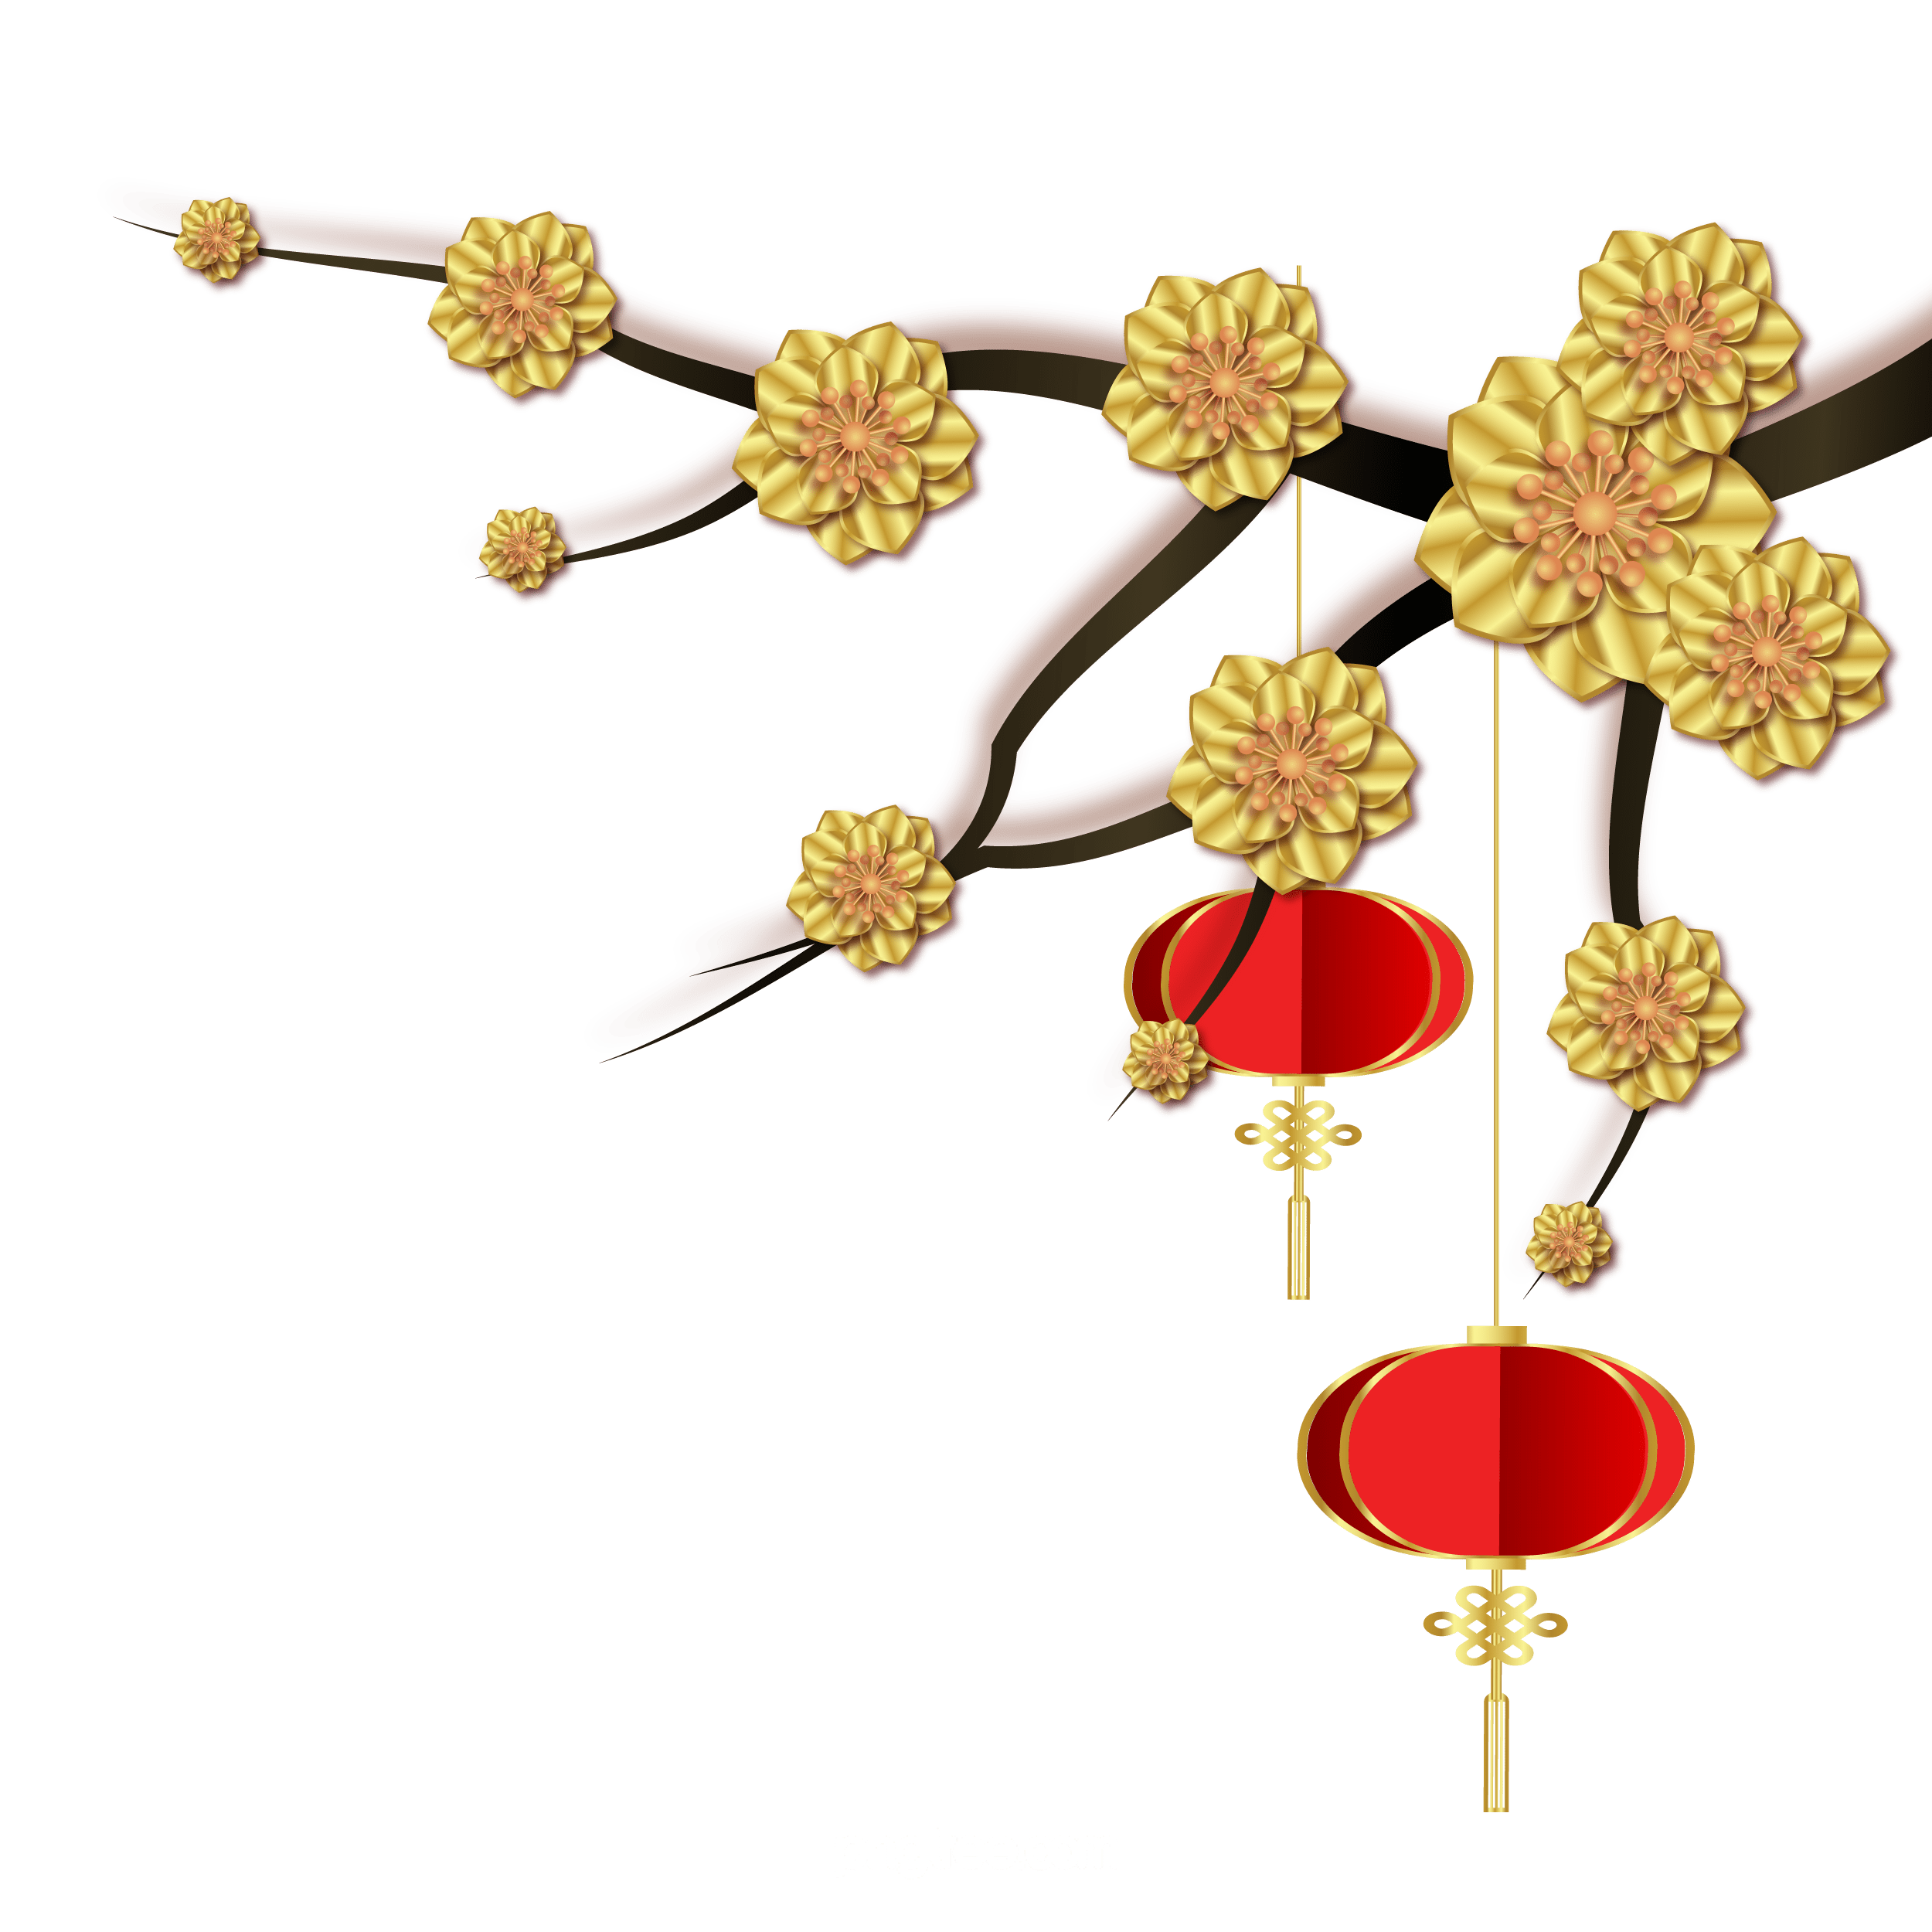
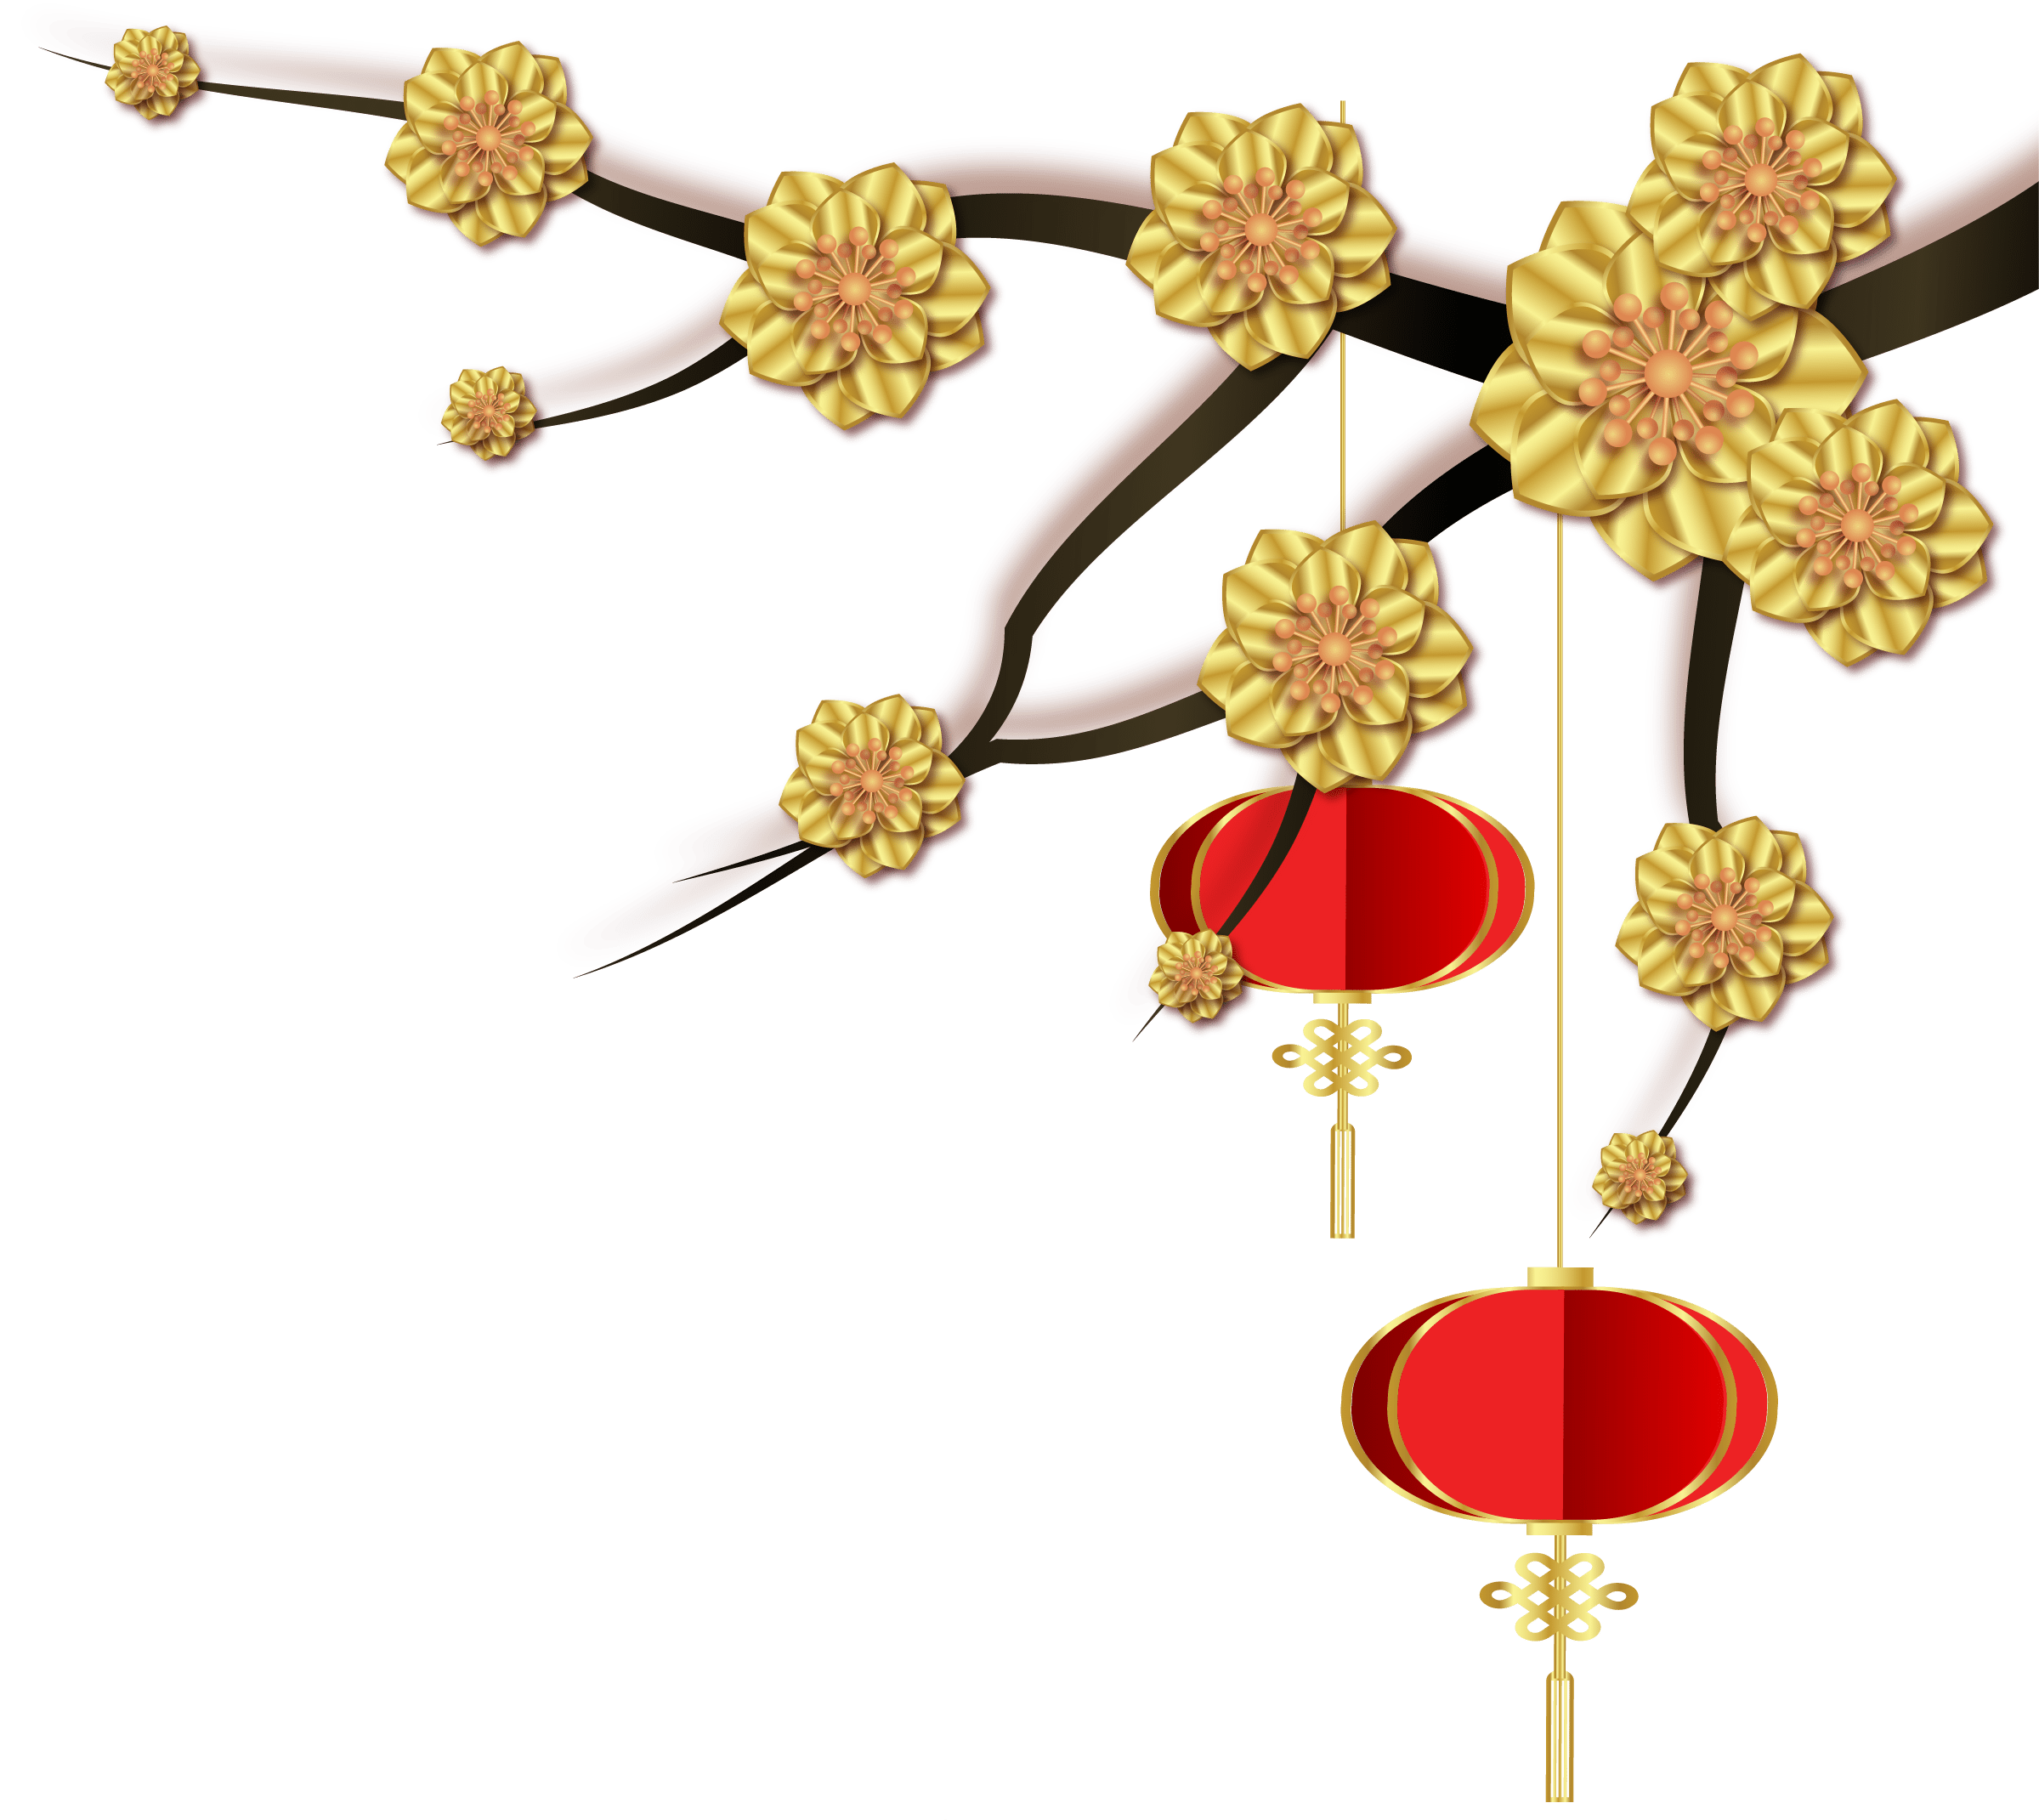
Add files via upload

Changed region(s): [[0.0308, 0.0, 1.0, 1.0]]

diff --git a/index.html b/index.html
@@ -26,7 +26,7 @@
 <div class="corner bottom-left">✿</div>
 <div class="corner bottom-right">✿</div>
    <h1 class="title">Chúc Mừng Năm Mới</h1>
-  <h2 class="receiver"><u>Gởi đến:</u> <span class="name">Đào Duy Khương</span></h2> 
+  <h2 class="receiver"><u>Gởi đến</u>: <span class="name">Đào Duy Khương</span></h2> 
     <button id="openBtn" onclick="openCard()" class="tet-btn">Mở thiệp Tết 🧧</button>
    <div id="wish" class="wish hidden">
   <p style="text-align: justify; font-style: italic; line-height: 1.8; font-size: 20px;">
@@ -36,7 +36,7 @@
 
     &nbsp;&nbsp;&nbsp;&nbsp;Mong rằng trong năm <span class="highlight">2026</span>,
     mọi dự định của ông sẽ diễn ra suôn sẻ,
-    và luôn gặp nhiều may mắn nhé. Tui chỉ làm được những việc này để mong ông vui thoii✨<br> 
+    và luôn gặp nhiều may mắn nhé. Tui chỉ làm được những việc này để mong ông vui thoii.✨<br> 
 
   <strong>&nbsp;&nbsp;&nbsp;&nbsp;❤️Hi vọng ông luôn hạnh phúc!</strong>
   <p class="highlight-right">

diff --git a/style.css b/style.css
@@ -16,7 +16,7 @@ body {
 .title {
   font-family: 'Dancing Script', cursive;
   font-size: clamp(34px, 6vw, 46px);
-  color: #FFD966;
+  color: #fad460;
 
   text-shadow:
     0 0 6px rgba(255, 217, 102, 0.9),
@@ -71,7 +71,7 @@ h2 {
 }
 
 .name {
-  color: #ffdd55;
+  color: #fcdc5d;
 }
 
 /* Trang trí */